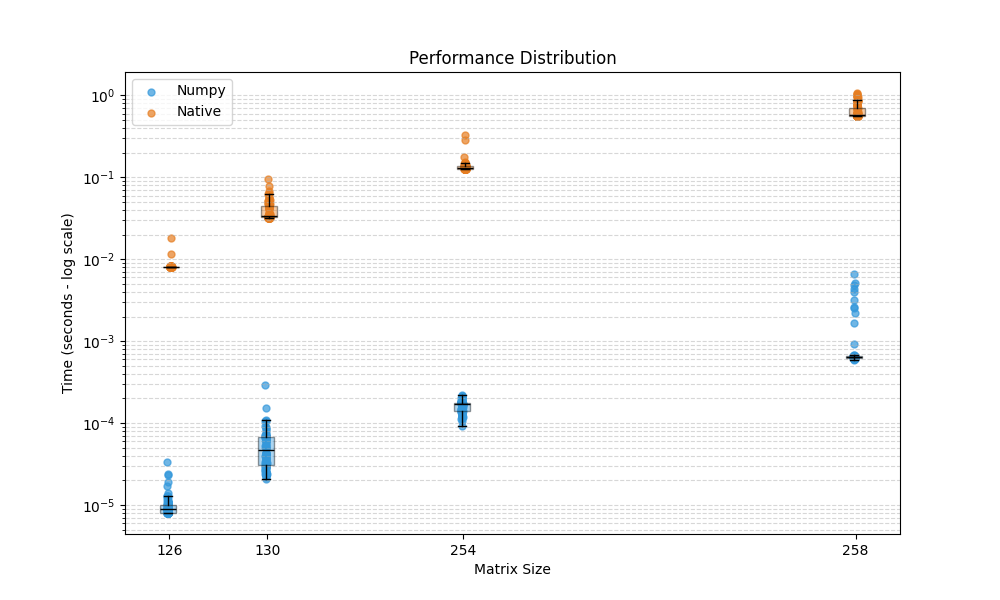
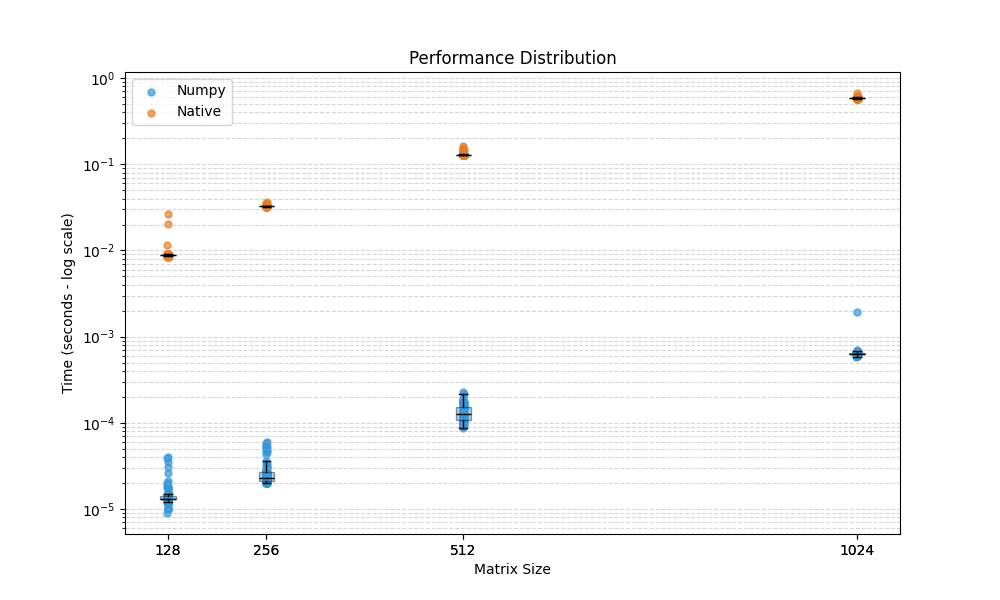
updated the script

Changed region(s): [[0.062, 0.12, 0.899, 0.93], [0.093, 0.12, 0.124, 0.18], [0.093, 0.54, 0.124, 0.57]]

diff --git a/Project2/CPU_Naive_all.py b/Project2/CPU_Naive_all.py
@@ -49,14 +49,15 @@ colors = {'Numpy': '#3498db', 'Native': '#e67e22'}
 plt.figure(figsize=(10, 6))
 
 for i, size_results in enumerate(all_times):
-    x_center = test_sizes[i]
 
     for cat_idx, cat_name in enumerate(categories):
+        x_center = test_sizes[i]
+        
         values = size_results[cat_idx]
 
-        offset = -2 if cat_idx == 0 else 2
+        # offset = -2 if cat_idx == 0 else 2
         
-        x_pos = x_center + offset
+        x_pos = x_center # + offset
 
         bp = plt.boxplot(values, positions=[x_pos], widths=20, patch_artist=True, showfliers=False)
 
@@ -66,7 +67,7 @@ for i, size_results in enumerate(all_times):
         jitter = np.random.uniform(-0.8, 0.8, size=len(values))
         plt.scatter(x_pos + jitter, values, color=colors[cat_name], s=25, alpha=0.7, label=cat_name if i==0 else "")
 
-plt.xticks(test_sizes)
+# plt.xticks(range(len(test_sizes)), test_sizes)
 plt.yscale('log')
 plt.xlabel('Matrix Size')
 plt.ylabel('Time (seconds - log scale)')
